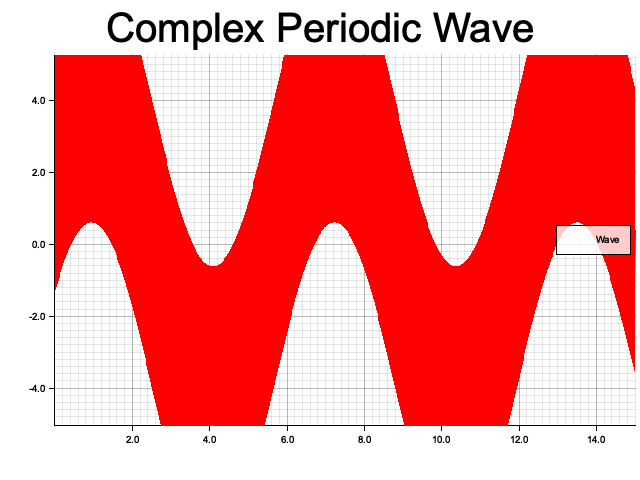
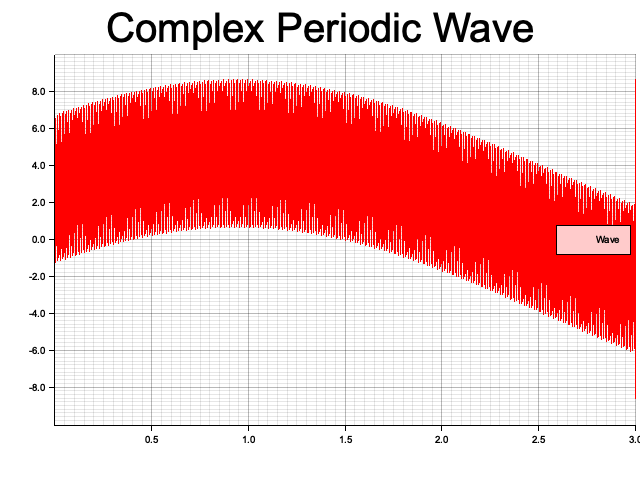
Worked out fourier synthesis problem

diff --git a/src/main.rs b/src/main.rs
@@ -172,30 +172,39 @@ impl SimpleWave {
 
 /// Generates a range of time points given a specific step
 fn get_range(init_time: f64, fin_time: f64, step: f64) -> Vec<f64> {
-    let mut to_step = init_time;
     let mut range: Vec<f64> = Vec::new();
-    while to_step <= fin_time {
-        range.push(to_step);
-        to_step += step;
+
+    let mut t = init_time;
+    while t <= fin_time {
+        range.push(t);
+        t += step;
     }
 
     range
 }
 
 /// Fourier synthesis of several simple waves into a complex wave
-fn fourier_synthesis(init_time: f64, fin_time: f64, step: f64, vect: Vec<SimpleWave>) -> Vec<f64> {
+fn fourier_synthesis(init_time: f64, fin_time: f64, step: f64, vect: Vec<SimpleWave>) -> Vec<(f64, f64)> {
     let mut resultant: Vec<f64> = Vec::new();
     let displacements:Vec<Vec<f64>> = vect.iter().map(|wave| wave.displace_y(init_time, fin_time, step)).collect();
     
     for j in 0..displacements[0].len() {
-        let mut r_sum: f64 = 0.0;
+        
+        let mut resultant_sum = 0.;
         for i in 0..displacements.len() {
-            r_sum += displacements[i][j];
-        }
-        resultant.push(r_sum);
-    }
+            
+            resultant_sum += displacements[i][j];
 
-    resultant
+
+        }
+
+        resultant.push(resultant_sum);
+    
+        assert_eq!(displacements[0][j] + displacements[1][j] + displacements[2][j], resultant[j]);
+    } 
+    
+    let range = get_range(init_time, fin_time, step);
+    std::iter::zip(range, resultant).collect()
 }
 
 // +++
@@ -206,14 +215,11 @@ fn main() -> Result<(), Box<dyn std::error::Error>> {
     let test_wave2: SimpleWave = SimpleWave::default();
     let test_wave3: SimpleWave = SimpleWave::sine_wave(3.22, 1.);
 
-    let init_time = 0.0;
-    let fin_time = 15.;
-    let step = 0.001;
+    let init_time: f64 = 0.0;
+    let fin_time: f64 = 15.;
+    let step: f64 = 0.001;
     
     let fourier = fourier_synthesis(init_time, fin_time, step, vec![test_wave1, test_wave2, test_wave3]);
-
-    let range = get_range(init_time, fin_time, step);
-        
     println!("wave generated!");
 
     // The chart
@@ -224,14 +230,14 @@ fn main() -> Result<(), Box<dyn std::error::Error>> {
         .margin(5u32)
         .x_label_area_size(50u32)
         .y_label_area_size(50u32)
-        .build_cartesian_2d(init_time..fin_time, -5.000..5.3000)?;
+        .build_cartesian_2d(init_time/5.0..fin_time/5., -10.00..10.00)?;
   
     chart.configure_mesh().draw()?;
 
     println!("wave drawn");
 
     chart
-        .draw_series(LineSeries::new(std::iter::zip(range, fourier), &RED))?
+        .draw_series(LineSeries::new(fourier ,&RED))?
         .label("Wave");
     chart
         .configure_series_labels()
